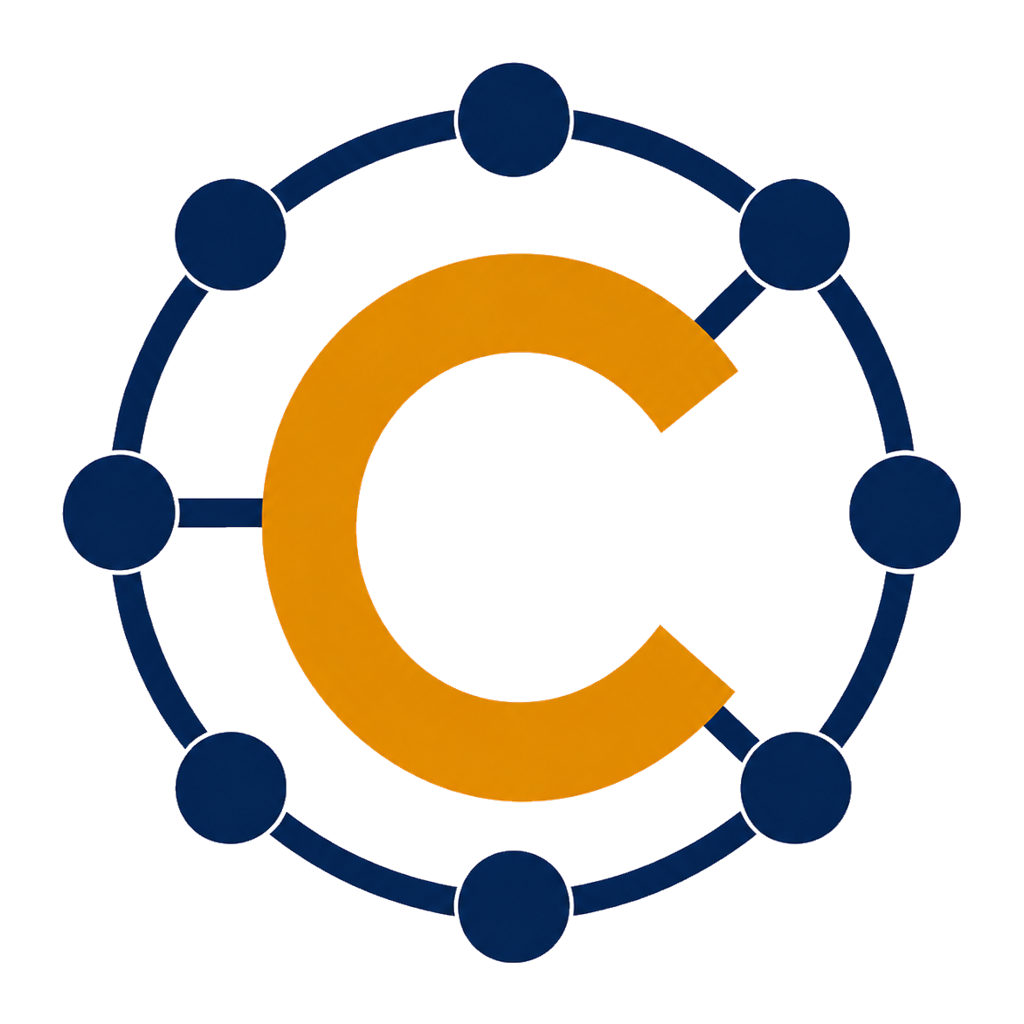
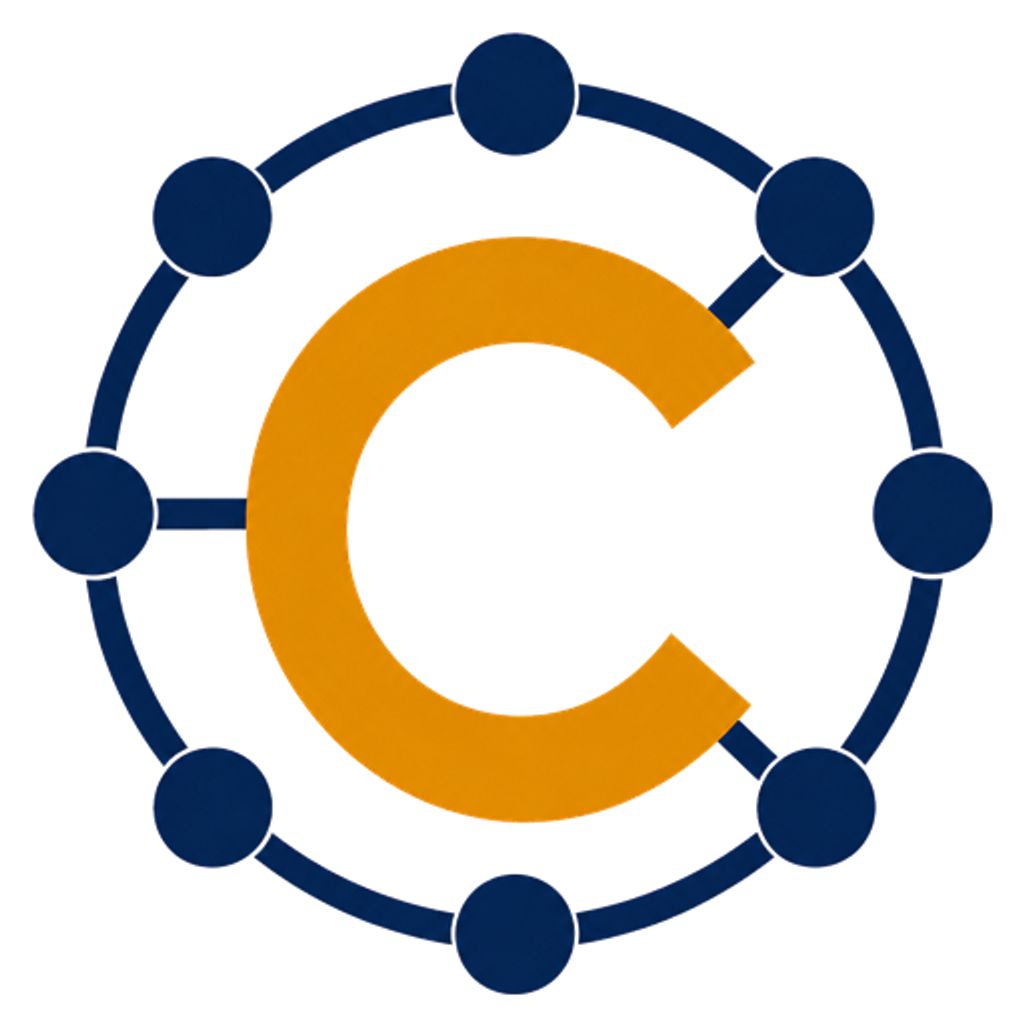
fix(closeboss): one master for the brand mark, so the generator can't revert it
TikTok rejected the production app because the icon in its Basic Info
did not match the icon on the website. The site was already correct —
the live favicon at closebossai.com is the C-mark — so the wrong art had
been uploaded to the portal. This is why that was easy to do.

`scripts/generate-brand-icons.mjs` still pointed at
`closeboss-mascot.png`, the RETIRED hexagon-of-six-people mark, long
after the icons themselves had been regenerated from the C-mark by some
other route. Running it would have silently reverted the favicon, the
apple-touch icon, every `closeboss-icon-*` size AND the Expo launcher
icon back to the old brand. The script had become a loaded gun pointed
at the brand, and nothing in the repo said so.

Worse, three near-identical marks lived here at once: the shipping
C-mark, the retired hexagon, and an unshipped intermediate in
`docs/branding/c-mark/` (an open ring with a gold sphere core rather
than a gold C). Three variants, one of which reached a review queue.

So there is now exactly ONE source of truth,
`public/brand/closeboss/closeboss-mark-master.png`, and all nine outputs
derive from it. Transparent vs opaque is deliberate rather than
incidental: the favicon and standalone mark keep their alpha; the
apple-touch icon and Expo launcher are flattened onto white because iOS
and Android composite transparency onto black.

Adds `closeboss-tile-512.png` — the same mark on a white tile, for
[…]

diff --git a/apps/leadsmartai/app/layout.tsx b/apps/leadsmartai/app/layout.tsx
@@ -106,8 +106,11 @@ export const metadata: Metadata = {
     // account exists (the old @leadsmartai handle would misattribute).
   },
   // Favicon/app icons come from Next's file conventions: app/icon.png (the
-  // CloseBoss hexagon mark on a white tile) and app/apple-icon.png. No explicit
-  // `icons` overrides, so app/icon.png is the canonical favicon.
+  // CloseBoss C-mark, transparent) and app/apple-icon.png (the same mark on a
+  // white tile, because iOS composites transparency onto black). No explicit
+  // `icons` overrides, so app/icon.png is the canonical favicon. Both are
+  // generated from public/brand/closeboss/closeboss-mark-master.png via
+  // scripts/generate-brand-icons.mjs — regenerate, never hand-edit.
   // NOTE: Do NOT set a root-level canonical here. Next.js merges root
   // layout metadata into every child page that doesn't override it,
   // which causes all subpages (e.g. /about, /pricing, /blog) to emit
